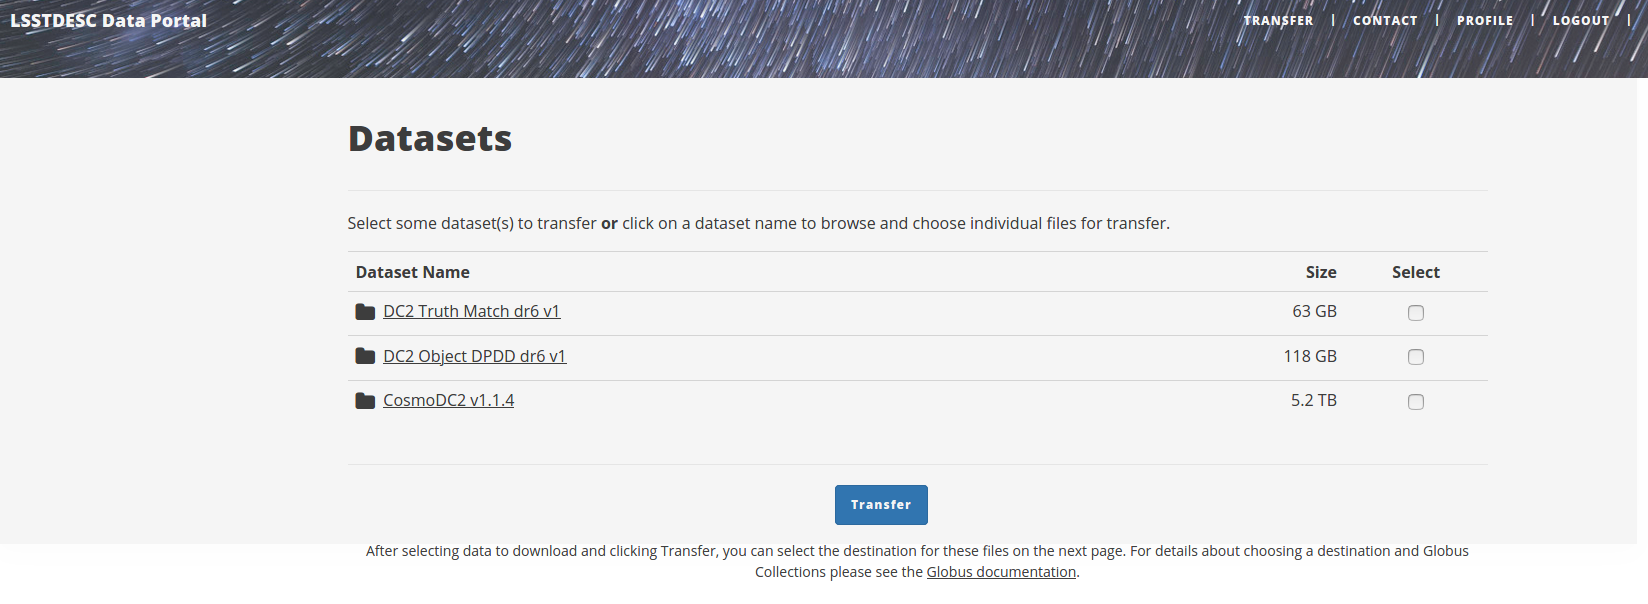
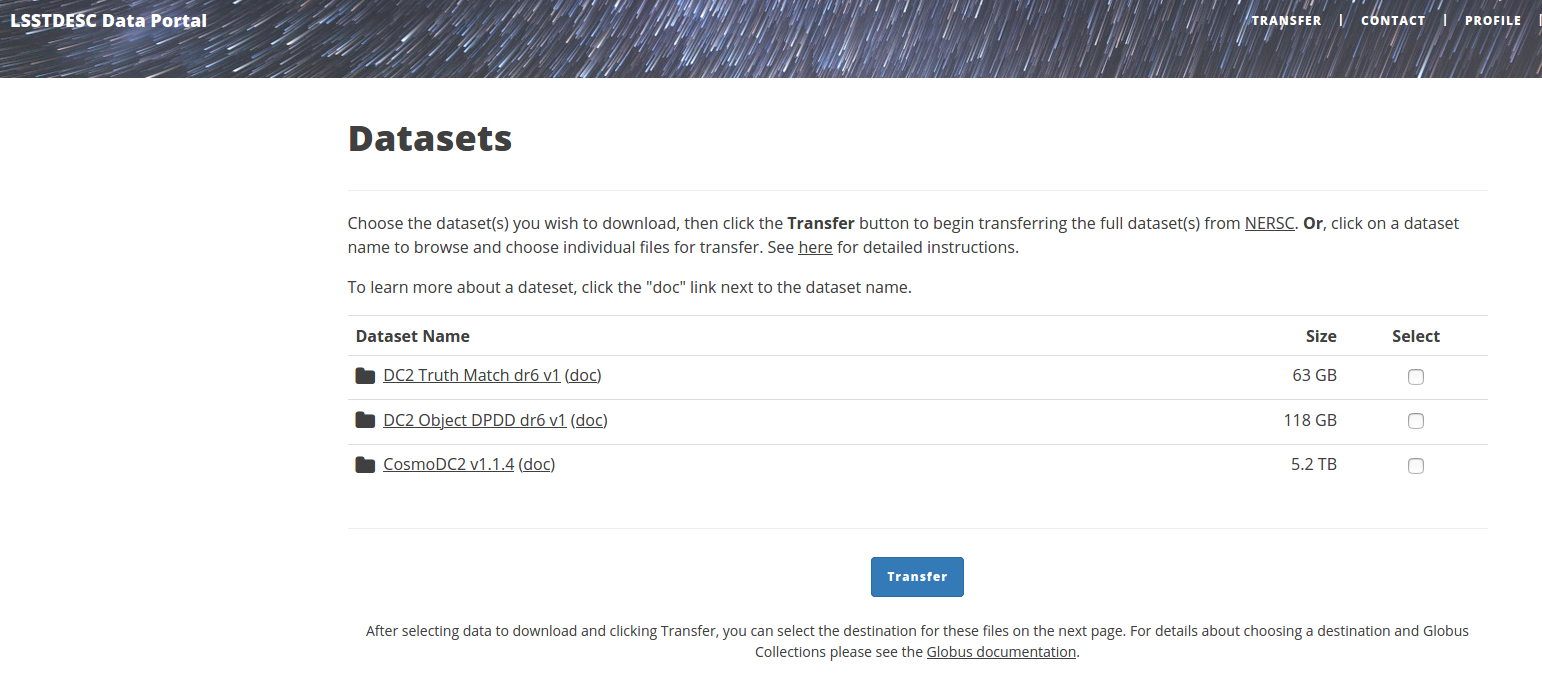
update download doc

diff --git a/web/portal/templates/doc/download.md b/web/portal/templates/doc/download.md
@@ -10,6 +10,13 @@ Once authenticated with Globus, users may transfer either whole directories or i
 
 ![Transfer](/static/img/transfer.png)
 
+### Chosing the LSSTDESC Data Source
+
+The LSSTDESC Data is mirrored on two separate Globus endpoints, one at NERSC and the other at Argonne National Lab(ANL).  You may choose which endpoint you wish to use as your LSSTDESC data source.  Your currently chosen data source will be indicated on the Transfer page.  If you wish to change which data source you use for your transfers, you can visit the Profile page and click on the data source and then click Save. All future data transfers will use your chosen LSSTDESC data source until you change it again on the Profile page.  If you are satisfied with the chosen data source, you can proceed to download data.
+
+![Profile](static/img/profile.png)
+
+### Download Data
 
 If you wish to download whole directories, select the datasets to download and then click Transfer at the bottom of the page.
 
